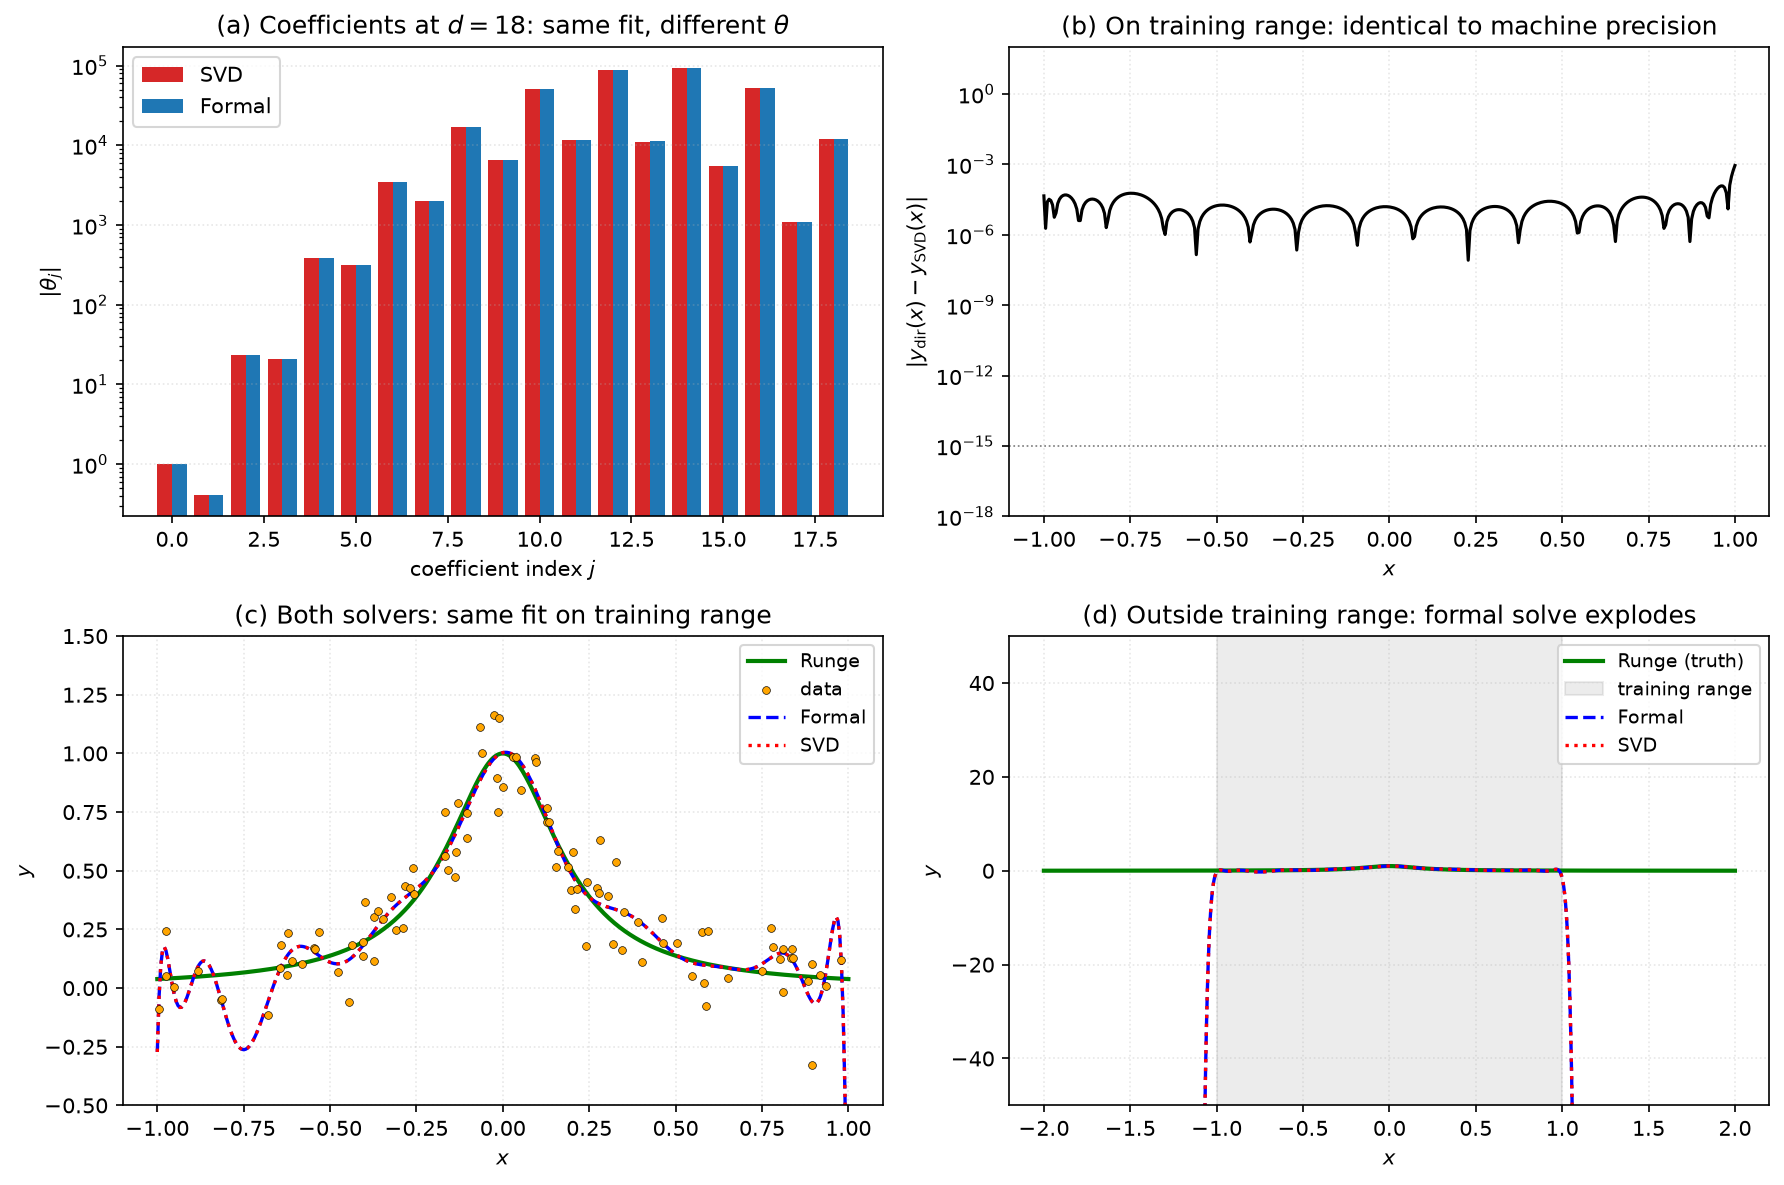
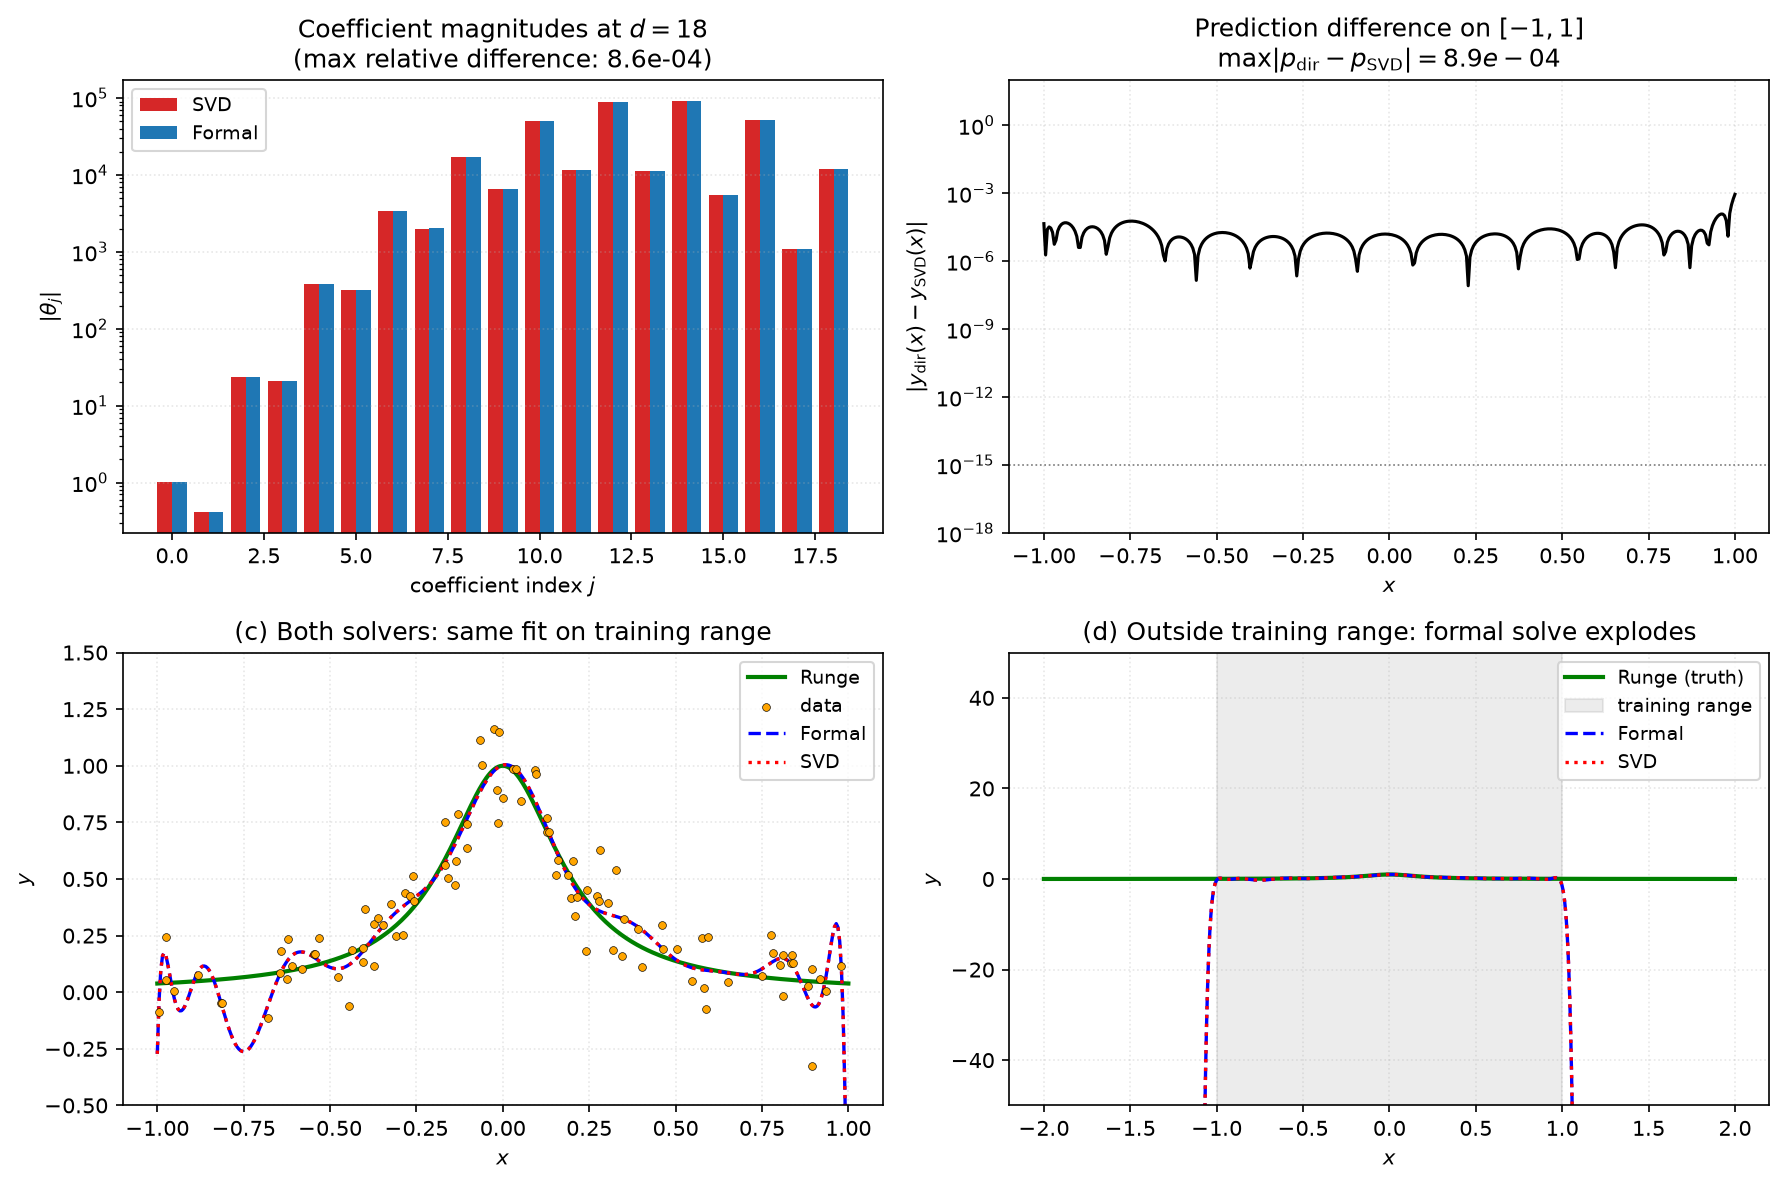
changes

diff --git a/Project1/results/solver_numerics.py b/Project1/results/solver_numerics.py
@@ -28,13 +28,20 @@ fig, ax = plt.subplots(2, 2, figsize=(12, 8))
 # (a) Coefficients side by side — THE key panel
 j = np.arange(d + 1)
 w = 0.4
-ax[0,0].bar(j - w/2, np.abs(th_svd),  w, label='SVD',    color='tab:red')
-ax[0,0].bar(j + w/2, np.abs(th_dir),  w, label='Formal', color='tab:blue')
+rel_diff = np.abs(th_dir - th_svd) / (np.abs(th_svd) + 1e-30)
+
+ax[0,0].bar(j - 0.2, np.abs(th_svd),  0.4, label='SVD',    color='tab:red')
+ax[0,0].bar(j + 0.2, np.abs(th_dir),  0.4, label='Formal', color='tab:blue')
 ax[0,0].set_yscale('log')
 ax[0,0].set_xlabel('coefficient index $j$')
 ax[0,0].set_ylabel(r'$|\theta_j|$')
-ax[0,0].set_title(f'(a) Coefficients at $d={d}$: same fit, different $\\theta$')
-ax[0,0].legend(); ax[0,0].grid(alpha=0.3, ls=':', axis='y')
+ax[0,0].set_title(
+    rf'Coefficient magnitudes at $d={d}$'
+    '\n'
+    rf'(max relative difference: {np.max(rel_diff[np.abs(th_svd) > 1e-10]):.1e})'
+)
+ax[0,0].legend(fontsize=9)
+ax[0,0].grid(alpha=0.3, ls=':', axis='y')
 
 # (b) Prediction difference on the training interval
 diff_in = np.abs(y_dir_in - y_svd_in)
@@ -42,7 +49,13 @@ ax[0,1].semilogy(xx_in, diff_in + 1e-18, 'k-')
 ax[0,1].axhline(1e-15, ls=':', c='gray', lw=0.8)
 ax[0,1].set_xlabel('$x$')
 ax[0,1].set_ylabel(r'$|y_{\rm dir}(x) - y_{\rm SVD}(x)|$')
-ax[0,1].set_title('(b) On training range: identical to machine precision')
+max_diff_in = np.max(diff_in)
+
+ax[0,1].set_title(
+    rf'Prediction difference on $[-1,1]$'
+    '\n'
+    rf'$\max |p_{{\rm dir}}-p_{{\rm SVD}}|={max_diff_in:.1e}$'
+)
 ax[0,1].set_ylim(1e-18, 1e2)
 ax[0,1].grid(alpha=0.3, ls=':')
 
